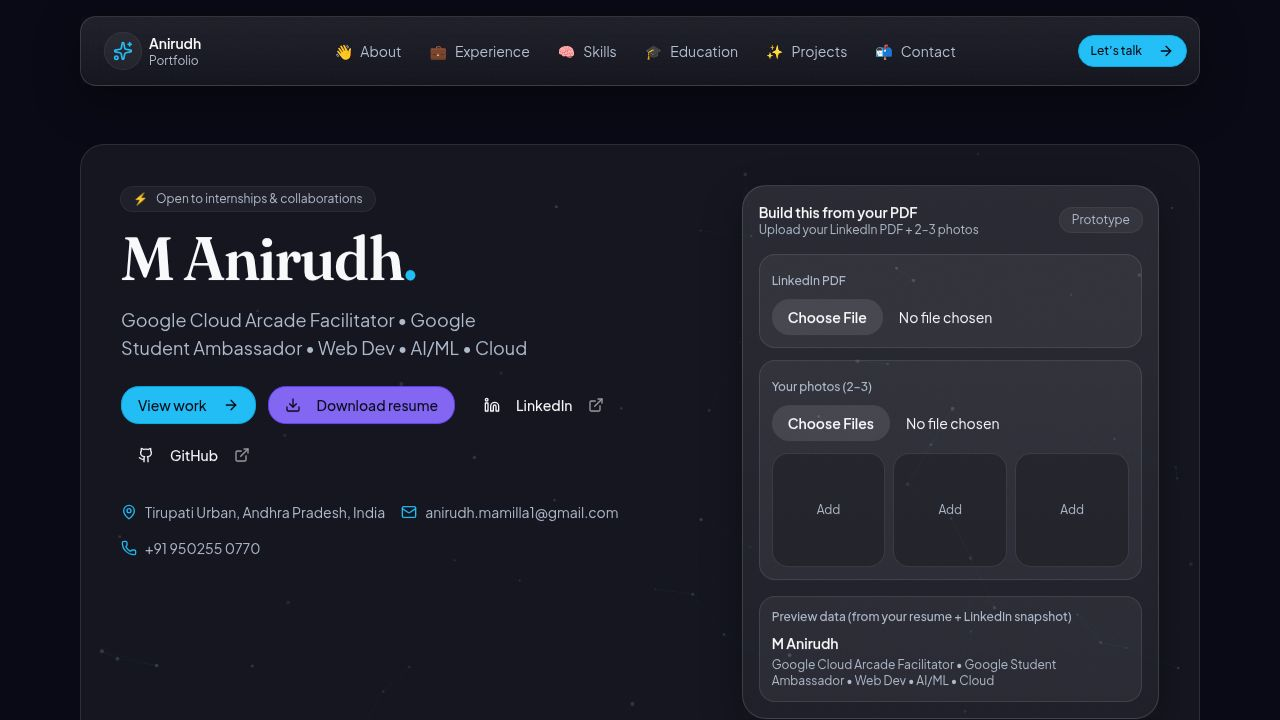
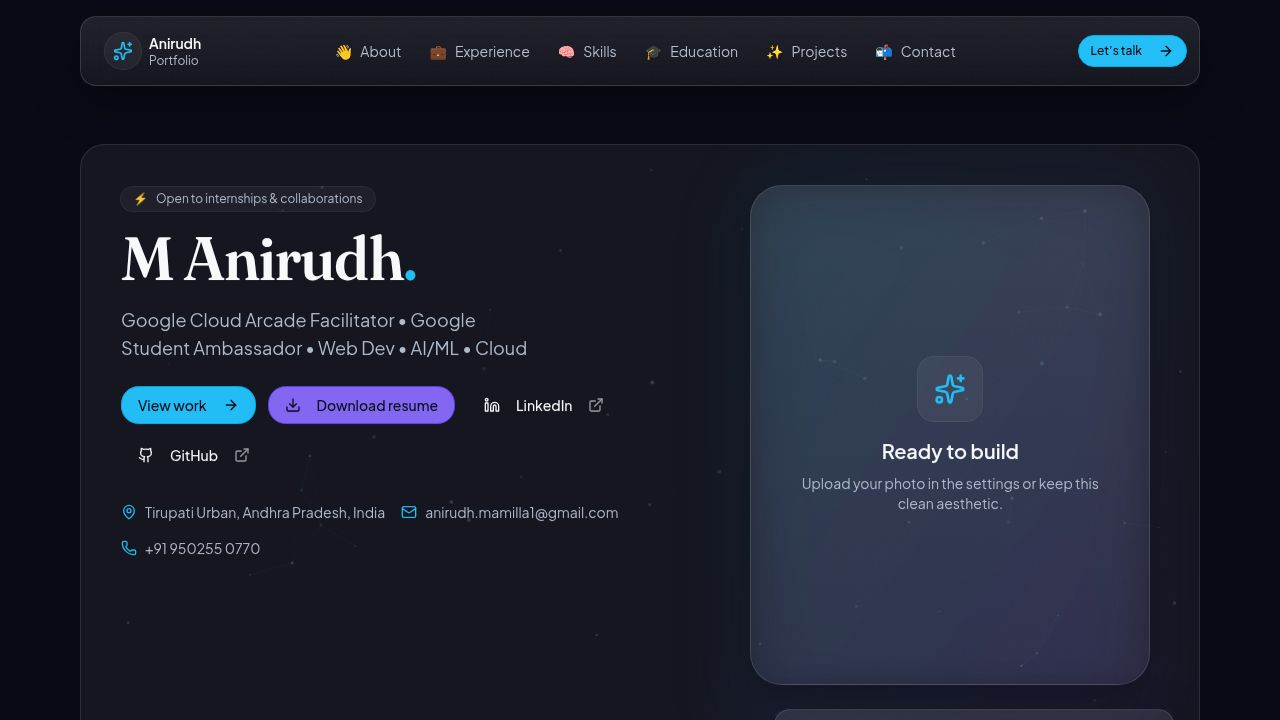
Remove PDF upload functionality and refine hero section design
Removes the "Build from your PDF" section and replaces it with a polished hero card, updating `portfolio.tsx` to display a profile image placeholder and a "Available for hire" status badge.

Replit-Commit-Author: Agent
Replit-Commit-Session-Id: 7cd2006c-7516-4081-aa83-d27fe2af1f94
Replit-Commit-Checkpoint-Type: full_checkpoint
Replit-Commit-Event-Id: 22c822d3-912c-465e-9167-85f886c9cbd8
Replit-Commit-Screenshot-Url: https://storage.googleapis.com/screenshot-production-us-central1/fbbca03c-aa08-47cf-9a6a-82cdb2a0a11b/7cd2006c-7516-4081-aa83-d27fe2af1f94/iZ45jkW
Replit-Helium-Checkpoint-Created: true

Changed region(s): [[0.5625, 0.2444, 0.9375, 1.0]]

diff --git a/client/src/pages/portfolio.tsx b/client/src/pages/portfolio.tsx
@@ -558,104 +558,42 @@ export default function Portfolio() {
             </div>
 
             <div className="relative" data-reveal>
-              <div className="glass grain rounded-3xl p-4">
-                <div className="flex items-center justify-between">
-                  <div>
-                    <div className="text-sm font-semibold" data-testid="text-tools-title">
-                      Build this from your PDF
-                    </div>
-                    <div
-                      className="text-xs text-muted-foreground"
-                      data-testid="text-tools-subtitle"
-                    >
-                      Upload your LinkedIn PDF + 2–3 photos
-                    </div>
-                  </div>
-                  <div className="rounded-full bg-white/5 px-3 py-1 text-xs text-muted-foreground ring-1 ring-white/10">
-                    Prototype
-                  </div>
-                </div>
-
-                <div className="mt-4 grid gap-3">
-                  <div className="rounded-2xl border border-white/10 bg-white/5 p-3">
-                    <label
-                      className="text-xs font-medium text-muted-foreground"
-                      htmlFor="pdf"
-                      data-testid="label-pdf"
-                    >
-                      LinkedIn PDF
-                    </label>
-                    <input
-                      id="pdf"
-                      type="file"
-                      accept="application/pdf"
-                      className="mt-2 block w-full text-sm file:mr-4 file:rounded-xl file:border-0 file:bg-white/10 file:px-4 file:py-2 file:text-sm file:font-semibold file:text-foreground hover:file:bg-white/15"
-                      onChange={(e) => void onParsePdf(e.target.files?.[0] ?? null)}
-                      data-testid="input-pdf"
-                    />
-                    {pdfName ? (
-                      <div className="mt-2 text-xs text-muted-foreground" data-testid="text-pdf-name">
-                        Selected: {pdfName}
-                      </div>
-                    ) : null}
-                  </div>
-
-                  <div className="rounded-2xl border border-white/10 bg-white/5 p-3">
-                    <label
-                      className="text-xs font-medium text-muted-foreground"
-                      htmlFor="photos"
-                      data-testid="label-photos"
-                    >
-                      Your photos (2–3)
-                    </label>
-                    <input
-                      id="photos"
-                      type="file"
-                      accept="image/*"
-                      multiple
-                      className="mt-2 block w-full text-sm file:mr-4 file:rounded-xl file:border-0 file:bg-white/10 file:px-4 file:py-2 file:text-sm file:font-semibold file:text-foreground hover:file:bg-white/15"
-                      onChange={(e) => onPickImages(e.target.files)}
-                      data-testid="input-photos"
-                    />
-
-                    <div className="mt-3 grid grid-cols-3 gap-2" data-testid="grid-photos">
-                      {[0, 1, 2].map((i) => (
-                        <div
-                          key={i}
-                          className="relative aspect-square overflow-hidden rounded-2xl border border-white/10 bg-black/20"
-                          data-testid={`card-photo-${i}`}
-                        >
-                          {heroImages[i] ? (
-                            <img
-                              src={heroImages[i]}
-                              alt={`Uploaded photo ${i + 1}`}
-                              className="h-full w-full object-cover"
-                              loading="lazy"
-                              data-testid={`img-photo-${i}`}
-                            />
-                          ) : (
-                            <div
-                              className="flex h-full w-full items-center justify-center text-xs text-muted-foreground"
-                              data-testid={`text-photo-empty-${i}`}
-                            >
-                              Add
-                            </div>
-                          )}
+              <div className="flex h-full items-center justify-center">
+                <div className="relative h-full w-full max-w-[400px]">
+                  {/* Decorative element or secondary gallery */}
+                  <div className="absolute -inset-4 rounded-[40px] bg-gradient-to-br from-primary/20 to-secondary/20 blur-2xl opacity-50" />
+                  <div className="glass grain relative flex aspect-[4/5] flex-col overflow-hidden rounded-[32px] border-white/10">
+                    {heroImages[0] ? (
+                      <img
+                        src={heroImages[0]}
+                        alt="Profile"
+                        className="h-full w-full object-cover"
+                        data-testid="img-hero-main"
+                      />
+                    ) : (
+                      <div className="flex h-full w-full flex-col items-center justify-center p-8 text-center">
+                        <div className="mb-4 rounded-2xl bg-white/5 p-4 ring-1 ring-white/10">
+                          <Sparkles className="h-8 w-8 text-primary" />
                         </div>
-                      ))}
+                        <h3 className="text-xl font-semibold">Ready to build</h3>
+                        <p className="mt-2 text-sm text-muted-foreground">
+                          Upload your photo in the settings or keep this clean aesthetic.
+                        </p>
+                      </div>
+                    )}
+                  </div>
+                  
+                  {/* Floating badge */}
+                  <div className="absolute -bottom-6 -right-6 glass grain rounded-2xl border-white/10 p-4 shadow-2xl">
+                    <div className="flex items-center gap-3">
+                      <div className="h-10 w-10 rounded-xl bg-primary/10 flex items-center justify-center">
+                        <Sparkles className="h-5 w-5 text-primary" />
+                      </div>
+                      <div>
+                        <div className="text-xs font-bold uppercase tracking-wider text-primary">Status</div>
+                        <div className="text-sm font-medium">Available for hire</div>
+                      </div>
                     </div>
-                  </div>
-                </div>
-
-                <div className="mt-4 rounded-2xl border border-white/10 bg-white/5 p-3">
-                  <div className="text-xs font-medium text-muted-foreground" data-testid="text-profile-preview">
-                    Preview data (from your resume + LinkedIn snapshot)
-                  </div>
-                  <div className="mt-2 text-sm font-semibold" data-testid="text-preview-name">
-                    {profile.name}
-                  </div>
-                  <div className="mt-1 text-xs text-muted-foreground" data-testid="text-preview-headline">
-                    {profile.headline}
                   </div>
                 </div>
               </div>
